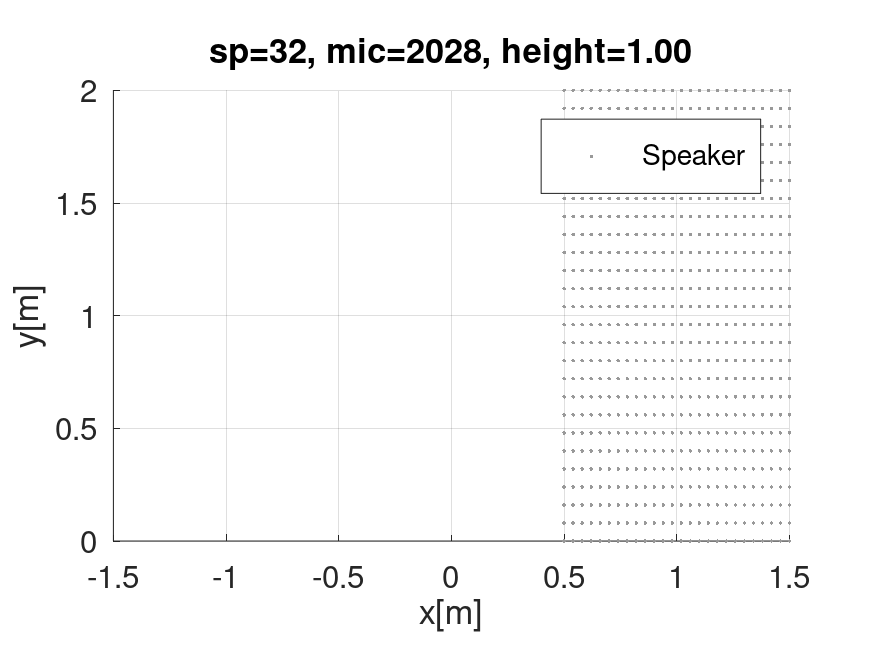
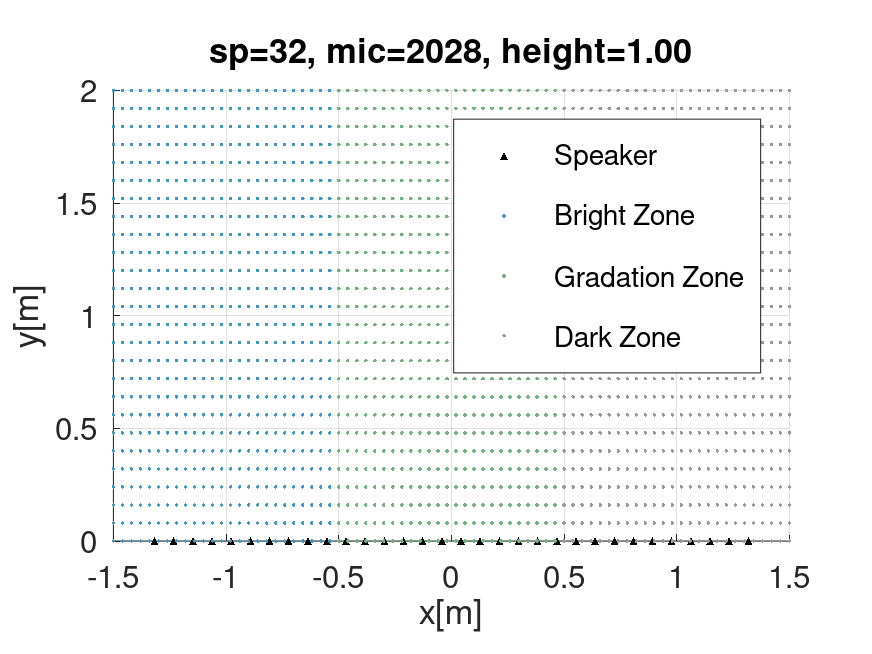
マイク数変更・重み変更

diff --git a/main.m b/main.m
@@ -23,7 +23,7 @@ room_size = [-1.5, 1.5, 0, 2.0];
 itv_room = 0.02;          % 空間全体の計算用格子点の間隔 [m]
 
 %% スピーカーとマイクの配置
-num_sp = 32;      % 使用するスピーカー数
+num_sp = 64;      % 使用するスピーカー数
 % 制御ゾーン（Bz, Gz, Dz）の設定
 zone_h = 1.0;             % 制御ゾーンの中心高さ(y座標) [m]
 dist_zone = 2.0;          % BzとDzの中心間距離 [m] (現在は各ゾーンの絶対座標で配置)

diff --git a/filter_pm.m b/filter_pm.m
@@ -59,7 +59,7 @@ function drv_ls = filter_pm(mic_geo, G, f, ang_wave, amp_src, Nsrc, c, num_bz, n
                 p_des(i) = amp_g * exp(1i * (2*pi*f(kk)/c) * (x_m*cos(ang_wave) + y_m*sin(ang_wave)));
             else
                 % GZ後半: 無音、重み 0.01 固定
-                w_vec(i) = 0.01;
+                w_vec(i) = 0.1;
                 p_des(i) = 0;
             end
         end
